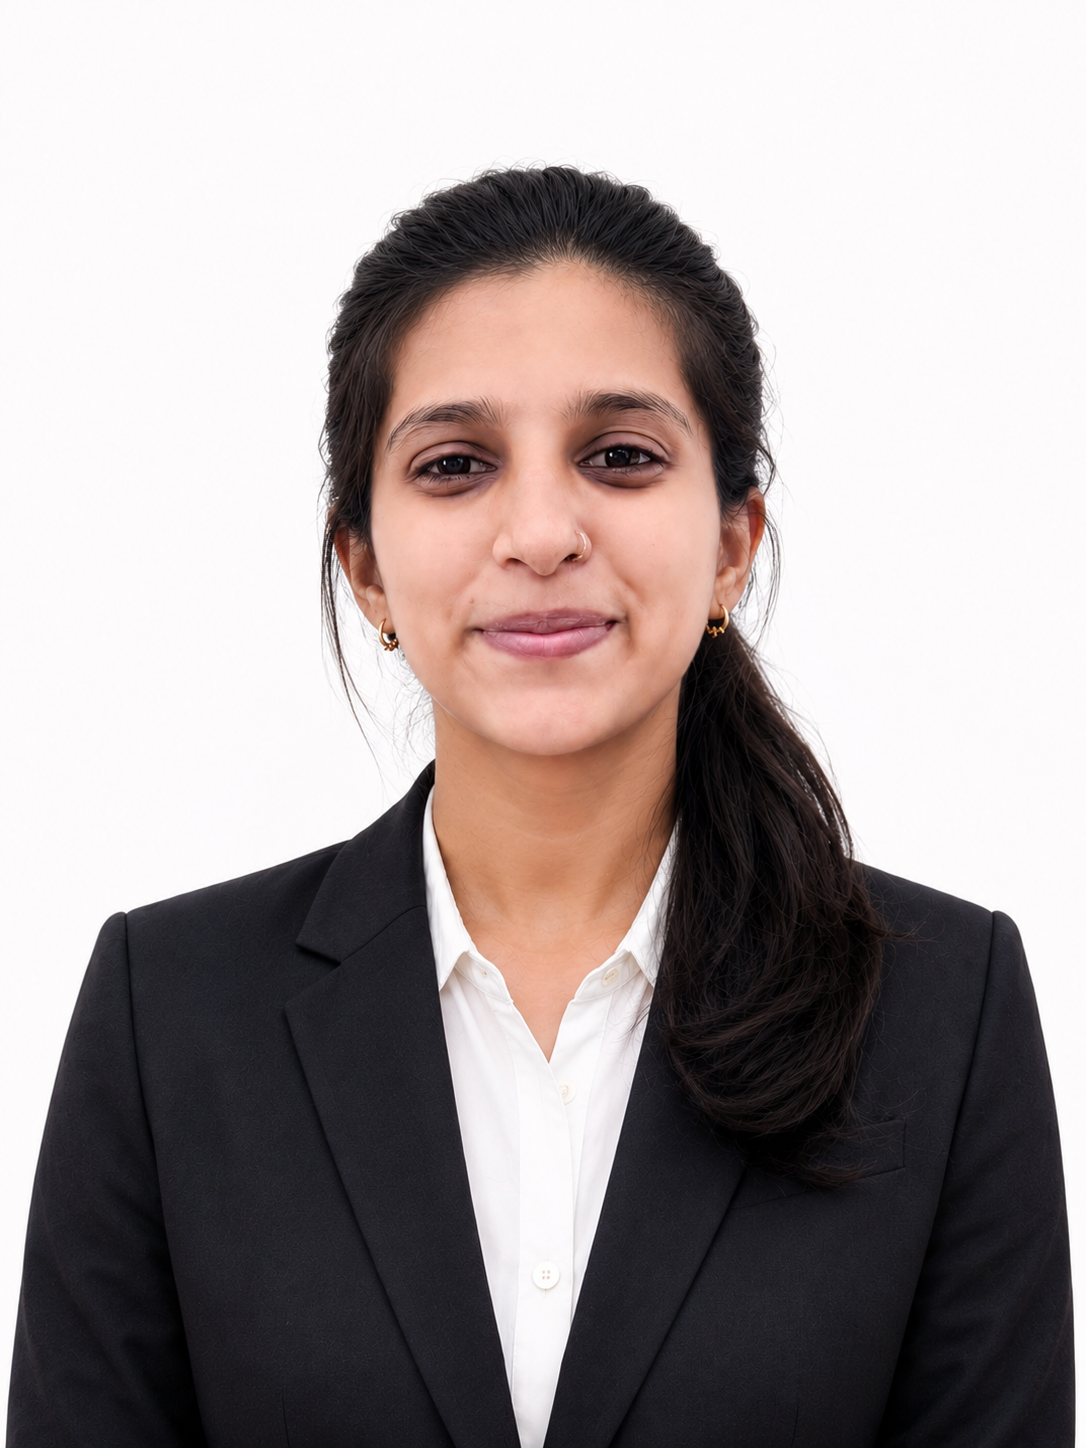
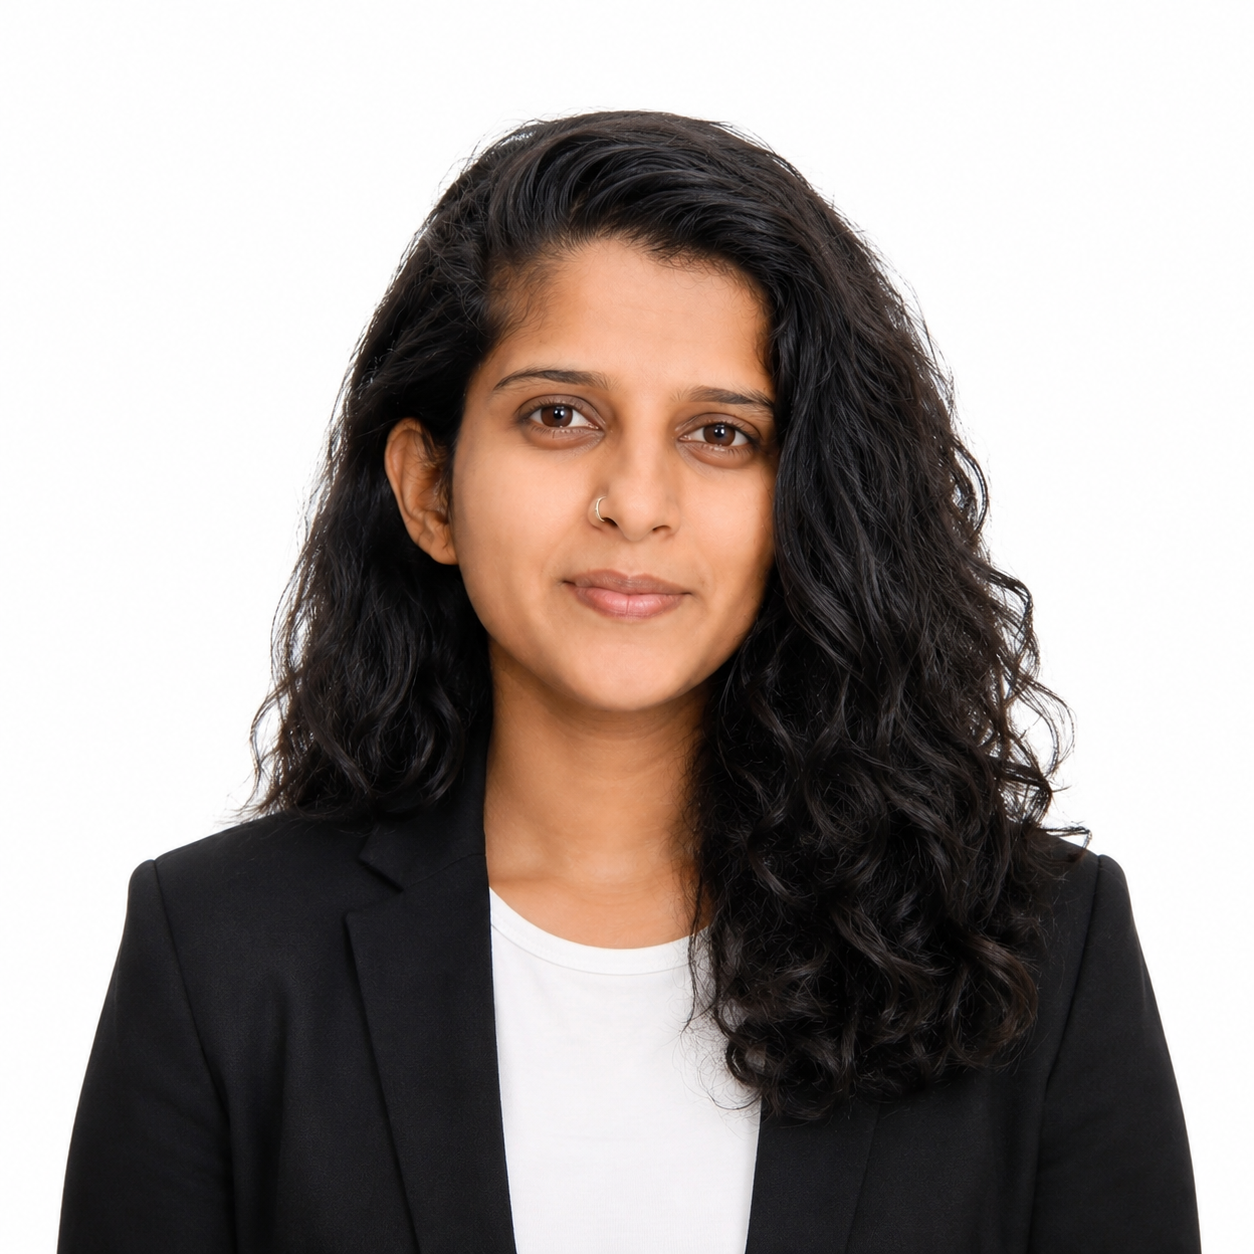
Update portfolio content, profile image and resume

diff --git a/data/portfolioData.js b/data/portfolioData.js
@@ -94,13 +94,13 @@ export const portfolioData = {
       degree: "Master of Computer Applications",
       institution: "P.E.S. Modern College of Engineering, Pune",
       duration: "2024 – 2026",
-      details: "CGPA : 6.24%"
+      details: "CGPA : 6.24"
     },
     {
       degree: "Bachelor of Computer Applications",
       institution: "Rajmata Jijau Shikshan Prasarak Mandal ACS College",
       duration: "2018 – 2021",
-      details: "Percentage: 70%"
+      details: "CGPA: 7.80"
     }
   ],
   certifications: [